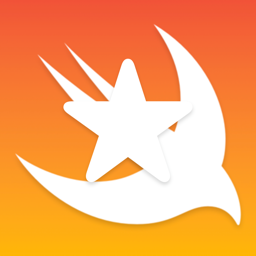
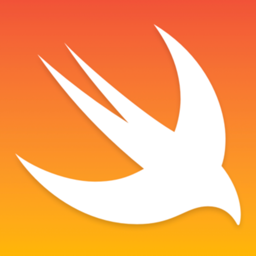
fix(wiki): artwork examples no longer draw a symbol over the artwork
The six images that import artwork as a background — `icon-bg image`,
`icon-bg-padding` on/off and the badge's three — inherited `--icon-symbol` /
`--badge-symbol` from the fixed base, and that quietly defeated them.

Importing a background hides that group's foreground, but only as a default:
naming or styling a foreground in the same group overrides it. `--icon-symbol` is
exactly such an argument, so the base was switching the symbol back on over the
artwork. Both halves of each image were white — the base's `star.fill` and the
white glyph inside the artwork — so they merged into one shape you cannot
separate. Not subtly wrong; unreadable.

Two things were wrong at once, which is why the fix drops the flag rather than
hiding the foreground with `--icon-fg-visibility off`:

  * The picture. A glyph on top sits over the artwork's edges, and the artwork's
    edges are the only place icon-bg-padding shows anything at all.
  * The command. `mica-cli --icon-bg artwork.png` is a complete invocation that
    needs no symbol, and it hides the foreground. Quoting a command with
    --icon-symbol in it would have documented the opposite default, on the one
    entry the plan calls the most surprising rule in the tool.

The rule is per group, so the badge's artwork cases keep the icon's star: only
the badge imported anything, and `--badge-bg <path>` activates the badge alone.

All six reproduce their image byte for byte from the manifest command. The
[…]

diff --git a/wiki/images/MANIFEST.md b/wiki/images/MANIFEST.md
@@ -37,7 +37,7 @@ one, so the page and the picture cannot disagree.
 | `icon-fg-shadow-off.png` | `icon-fg-shadow` | `off` | `mica-cli --icon-symbol star.fill --size 256 --icon-fg-shadow off` |
 | `icon-bg-standard.png` | `icon-bg` | `standard` | `mica-cli --icon-symbol star.fill --size 256 --icon-bg standard` |
 | `icon-bg-custom-gradient.png` | `icon-bg` | `custom-gradient` | `mica-cli --icon-symbol star.fill --size 256 --icon-bg custom-gradient --icon-bg-gradient-colors '#FF6B35,#F7931E'` |
-| `icon-bg-image.png` | `icon-bg` | `image` | `mica-cli --icon-symbol star.fill --size 256 --icon-bg artwork.png` |
+| `icon-bg-image.png` | `icon-bg` | `image` | `mica-cli --size 256 --icon-bg artwork.png` |
 | `icon-bg-color-blue.png` | `icon-bg-color` | `blue` | `mica-cli --icon-symbol star.fill --size 256 --icon-bg-color blue` |
 | `icon-bg-color-red.png` | `icon-bg-color` | `red` | `mica-cli --icon-symbol star.fill --size 256 --icon-bg-color red` |
 | `icon-bg-color-mint.png` | `icon-bg-color` | `mint` | `mica-cli --icon-symbol star.fill --size 256 --icon-bg-color mint` |
@@ -51,8 +51,8 @@ one, so the page and the picture cannot disagree.
 | `icon-bg-shadow-off.png` | `icon-bg-shadow` | `off` | `mica-cli --icon-symbol star.fill --size 256 --icon-bg-shadow off` |
 | `icon-bg-shadow-macos15.png` | `icon-bg-shadow` | `macos15` | `mica-cli --icon-symbol star.fill --size 256 --icon-bg-shadow macos15` |
 | `icon-bg-shadow-macos26.png` | `icon-bg-shadow` | `macos26` | `mica-cli --icon-symbol star.fill --size 256 --icon-bg-shadow macos26` |
-| `icon-bg-padding-on.png` | `icon-bg-padding` | `on` | `mica-cli --icon-symbol star.fill --size 256 --icon-bg artwork.png --icon-bg-padding on` |
-| `icon-bg-padding-off.png` | `icon-bg-padding` | `off` | `mica-cli --icon-symbol star.fill --size 256 --icon-bg artwork.png --icon-bg-padding off` |
+| `icon-bg-padding-on.png` | `icon-bg-padding` | `on` | `mica-cli --size 256 --icon-bg artwork.png --icon-bg-padding on` |
+| `icon-bg-padding-off.png` | `icon-bg-padding` | `off` | `mica-cli --size 256 --icon-bg artwork.png --icon-bg-padding off` |
 | `icon-visibility-all-on.png` | `icon-visibility` | `all-on` | `mica-cli --icon-symbol star.fill --badge-symbol plus --size 256 --icon-symbol-color black` |
 | `icon-visibility-fg-off.png` | `icon-visibility` | `fg-off` | `mica-cli --icon-symbol star.fill --badge-symbol plus --size 256 --icon-symbol-color black --icon-fg-visibility off` |
 | `icon-visibility-bg-off.png` | `icon-visibility` | `bg-off` | `mica-cli --icon-symbol star.fill --badge-symbol plus --size 256 --icon-symbol-color black --icon-bg-visibility off` |
@@ -97,7 +97,7 @@ one, so the page and the picture cannot disagree.
 | `badge-fg-shadow-off.png` | `badge-fg-shadow` | `off` | `mica-cli --icon-symbol star.fill --size 512 --badge-symbol heart.fill --badge-scale 2.0 --badge-fg-shadow off` |
 | `badge-bg-standard.png` | `badge-bg` | `standard` | `mica-cli --icon-symbol star.fill --badge-symbol plus --size 512 --badge-bg standard` |
 | `badge-bg-custom-gradient.png` | `badge-bg` | `custom-gradient` | `mica-cli --icon-symbol star.fill --badge-symbol plus --size 512 --badge-bg custom-gradient --badge-bg-gradient-colors '#FF6B35,#F7931E'` |
-| `badge-bg-image.png` | `badge-bg` | `image` | `mica-cli --icon-symbol star.fill --badge-symbol plus --size 512 --badge-bg artwork.png` |
+| `badge-bg-image.png` | `badge-bg` | `image` | `mica-cli --icon-symbol star.fill --size 512 --badge-bg artwork.png` |
 | `badge-bg-color-gray.png` | `badge-bg-color` | `gray` | `mica-cli --icon-symbol star.fill --badge-symbol plus --size 512 --badge-bg-color gray` |
 | `badge-bg-color-blue.png` | `badge-bg-color` | `blue` | `mica-cli --icon-symbol star.fill --badge-symbol plus --size 512 --badge-bg-color blue` |
 | `badge-bg-color-red.png` | `badge-bg-color` | `red` | `mica-cli --icon-symbol star.fill --badge-symbol plus --size 512 --badge-bg-color red` |
@@ -107,7 +107,7 @@ one, so the page and the picture cannot disagree.
 | `badge-bg-gradient-off.png` | `badge-bg-gradient` | `off` | `mica-cli --icon-symbol star.fill --badge-symbol plus --size 512 --badge-bg-gradient off` |
 | `badge-bg-shadow-on.png` | `badge-bg-shadow` | `on` | `mica-cli --icon-symbol star.fill --badge-symbol plus --size 512 --badge-bg-shadow on` |
 | `badge-bg-shadow-off.png` | `badge-bg-shadow` | `off` | `mica-cli --icon-symbol star.fill --badge-symbol plus --size 512 --badge-bg-shadow off` |
-| `badge-bg-padding-on.png` | `badge-bg-padding` | `on` | `mica-cli --icon-symbol star.fill --badge-symbol plus --size 512 --badge-bg artwork.png --badge-bg-padding on` |
-| `badge-bg-padding-off.png` | `badge-bg-padding` | `off` | `mica-cli --icon-symbol star.fill --badge-symbol plus --size 512 --badge-bg artwork.png --badge-bg-padding off` |
+| `badge-bg-padding-on.png` | `badge-bg-padding` | `on` | `mica-cli --icon-symbol star.fill --size 512 --badge-bg artwork.png --badge-bg-padding on` |
+| `badge-bg-padding-off.png` | `badge-bg-padding` | `off` | `mica-cli --icon-symbol star.fill --size 512 --badge-bg artwork.png --badge-bg-padding off` |
 | `icon-generation-mode-mica.png` | `icon-generation-mode` | `mica` | `mica-cli --icon-symbol star.fill --size 256 --icon-bg-color blue --icon-symbol-color white --icon-generation-mode mica` |
 | `icon-generation-mode-system.png` | `icon-generation-mode` | `system` | `mica-cli --icon-symbol star.fill --size 256 --icon-bg-color blue --icon-symbol-color white --icon-generation-mode system` |
